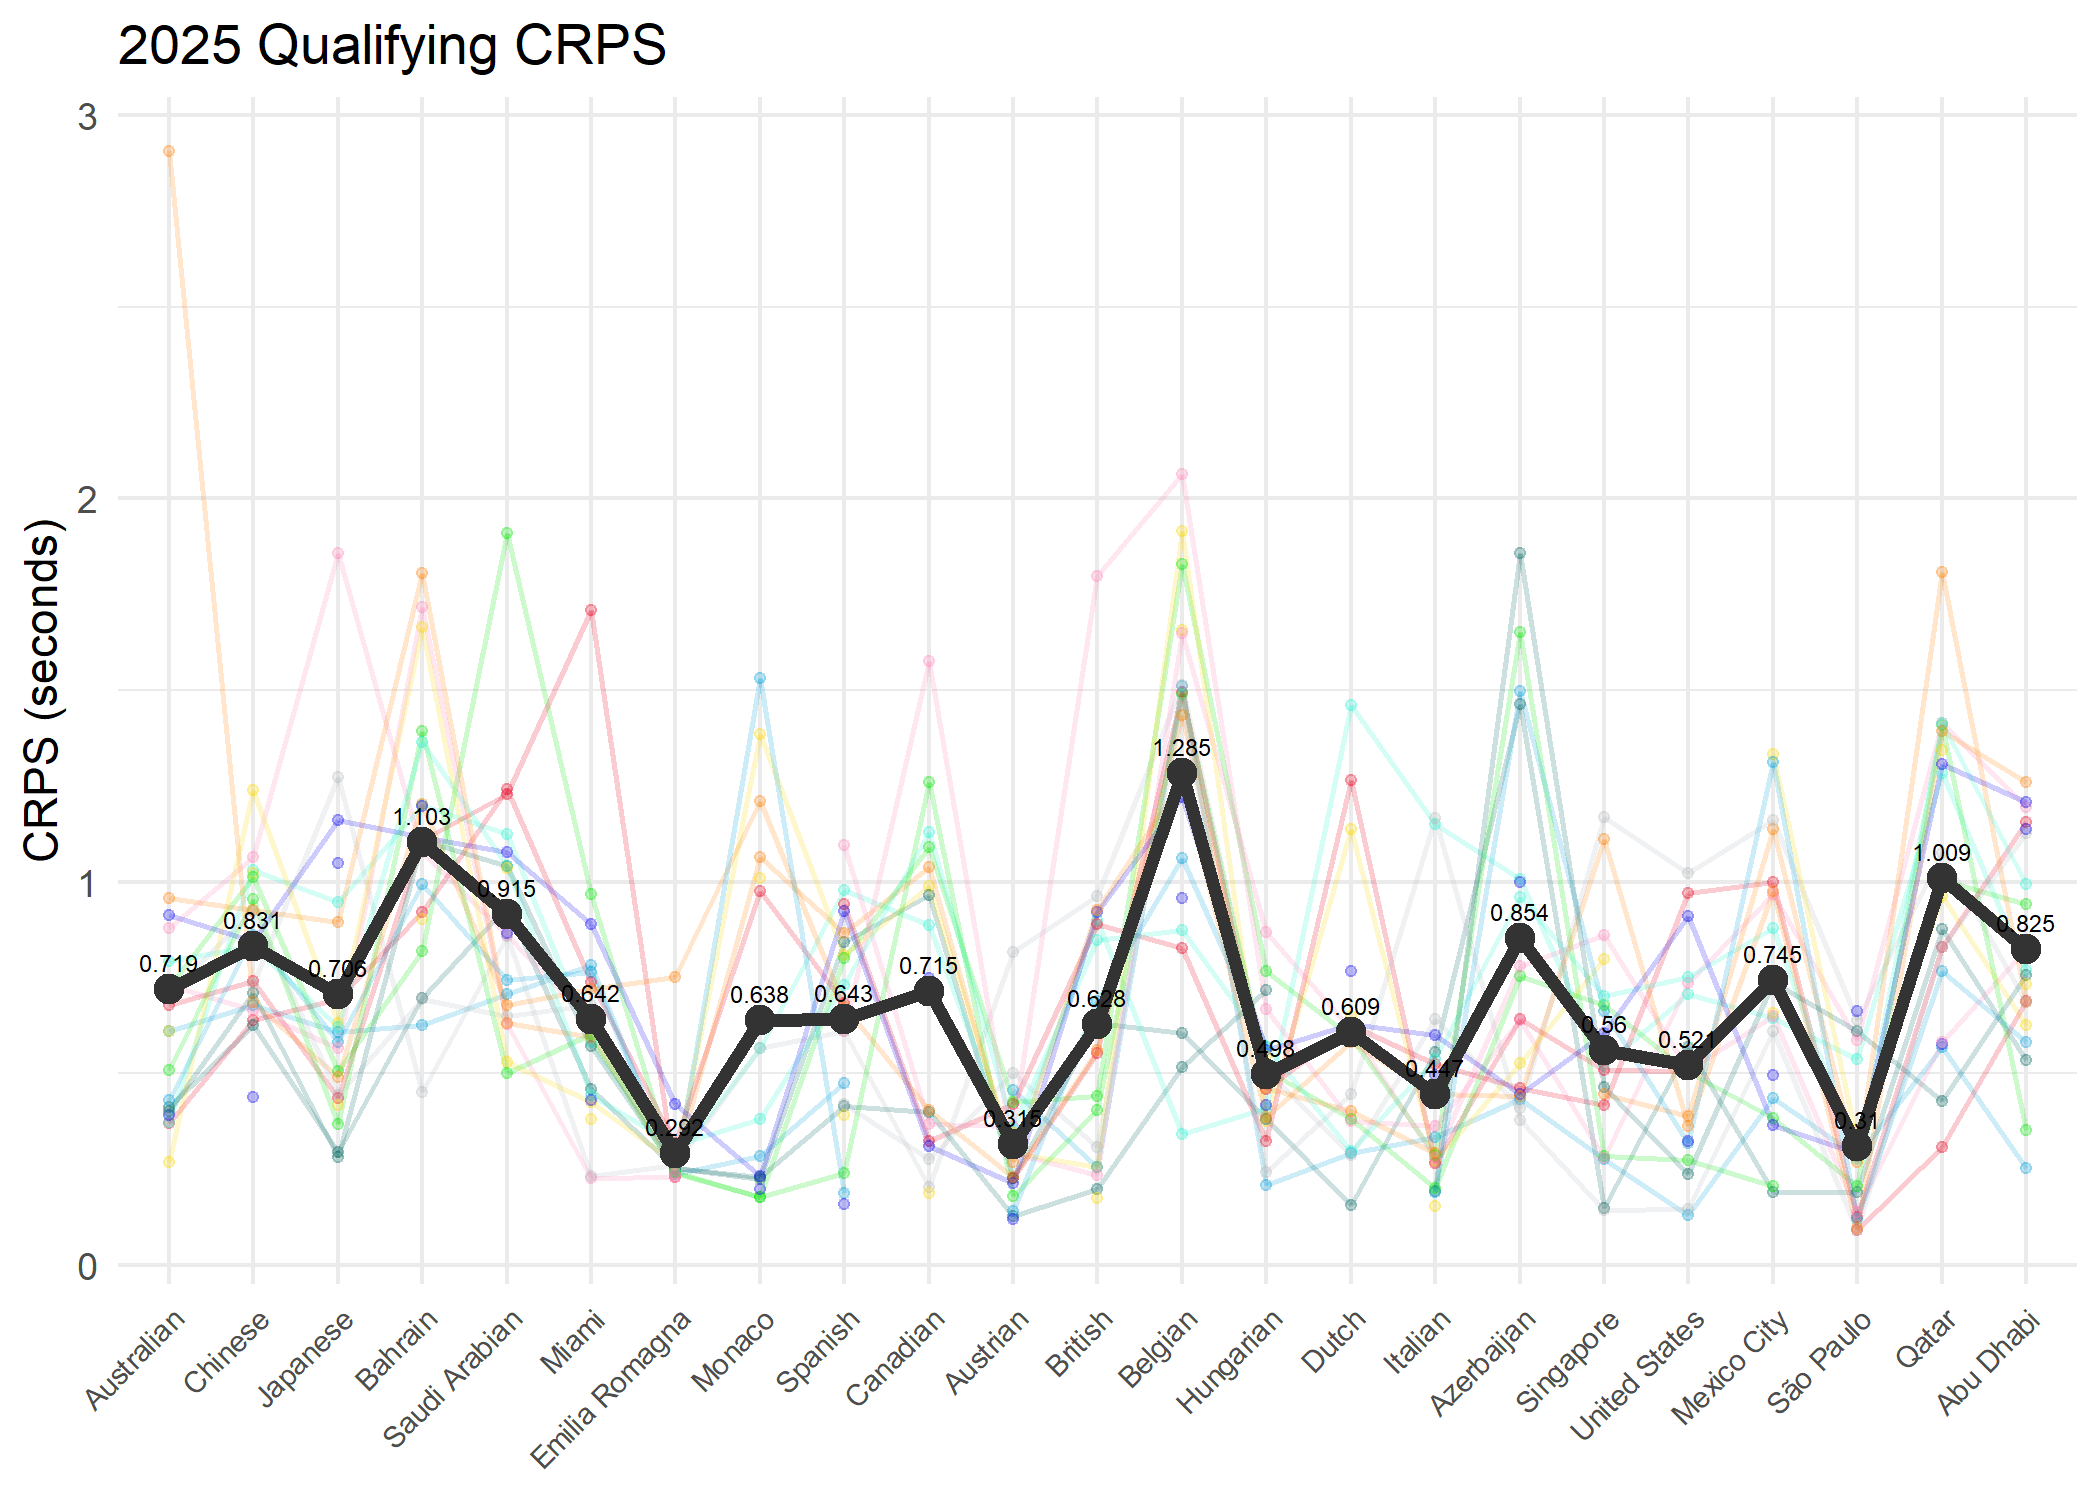
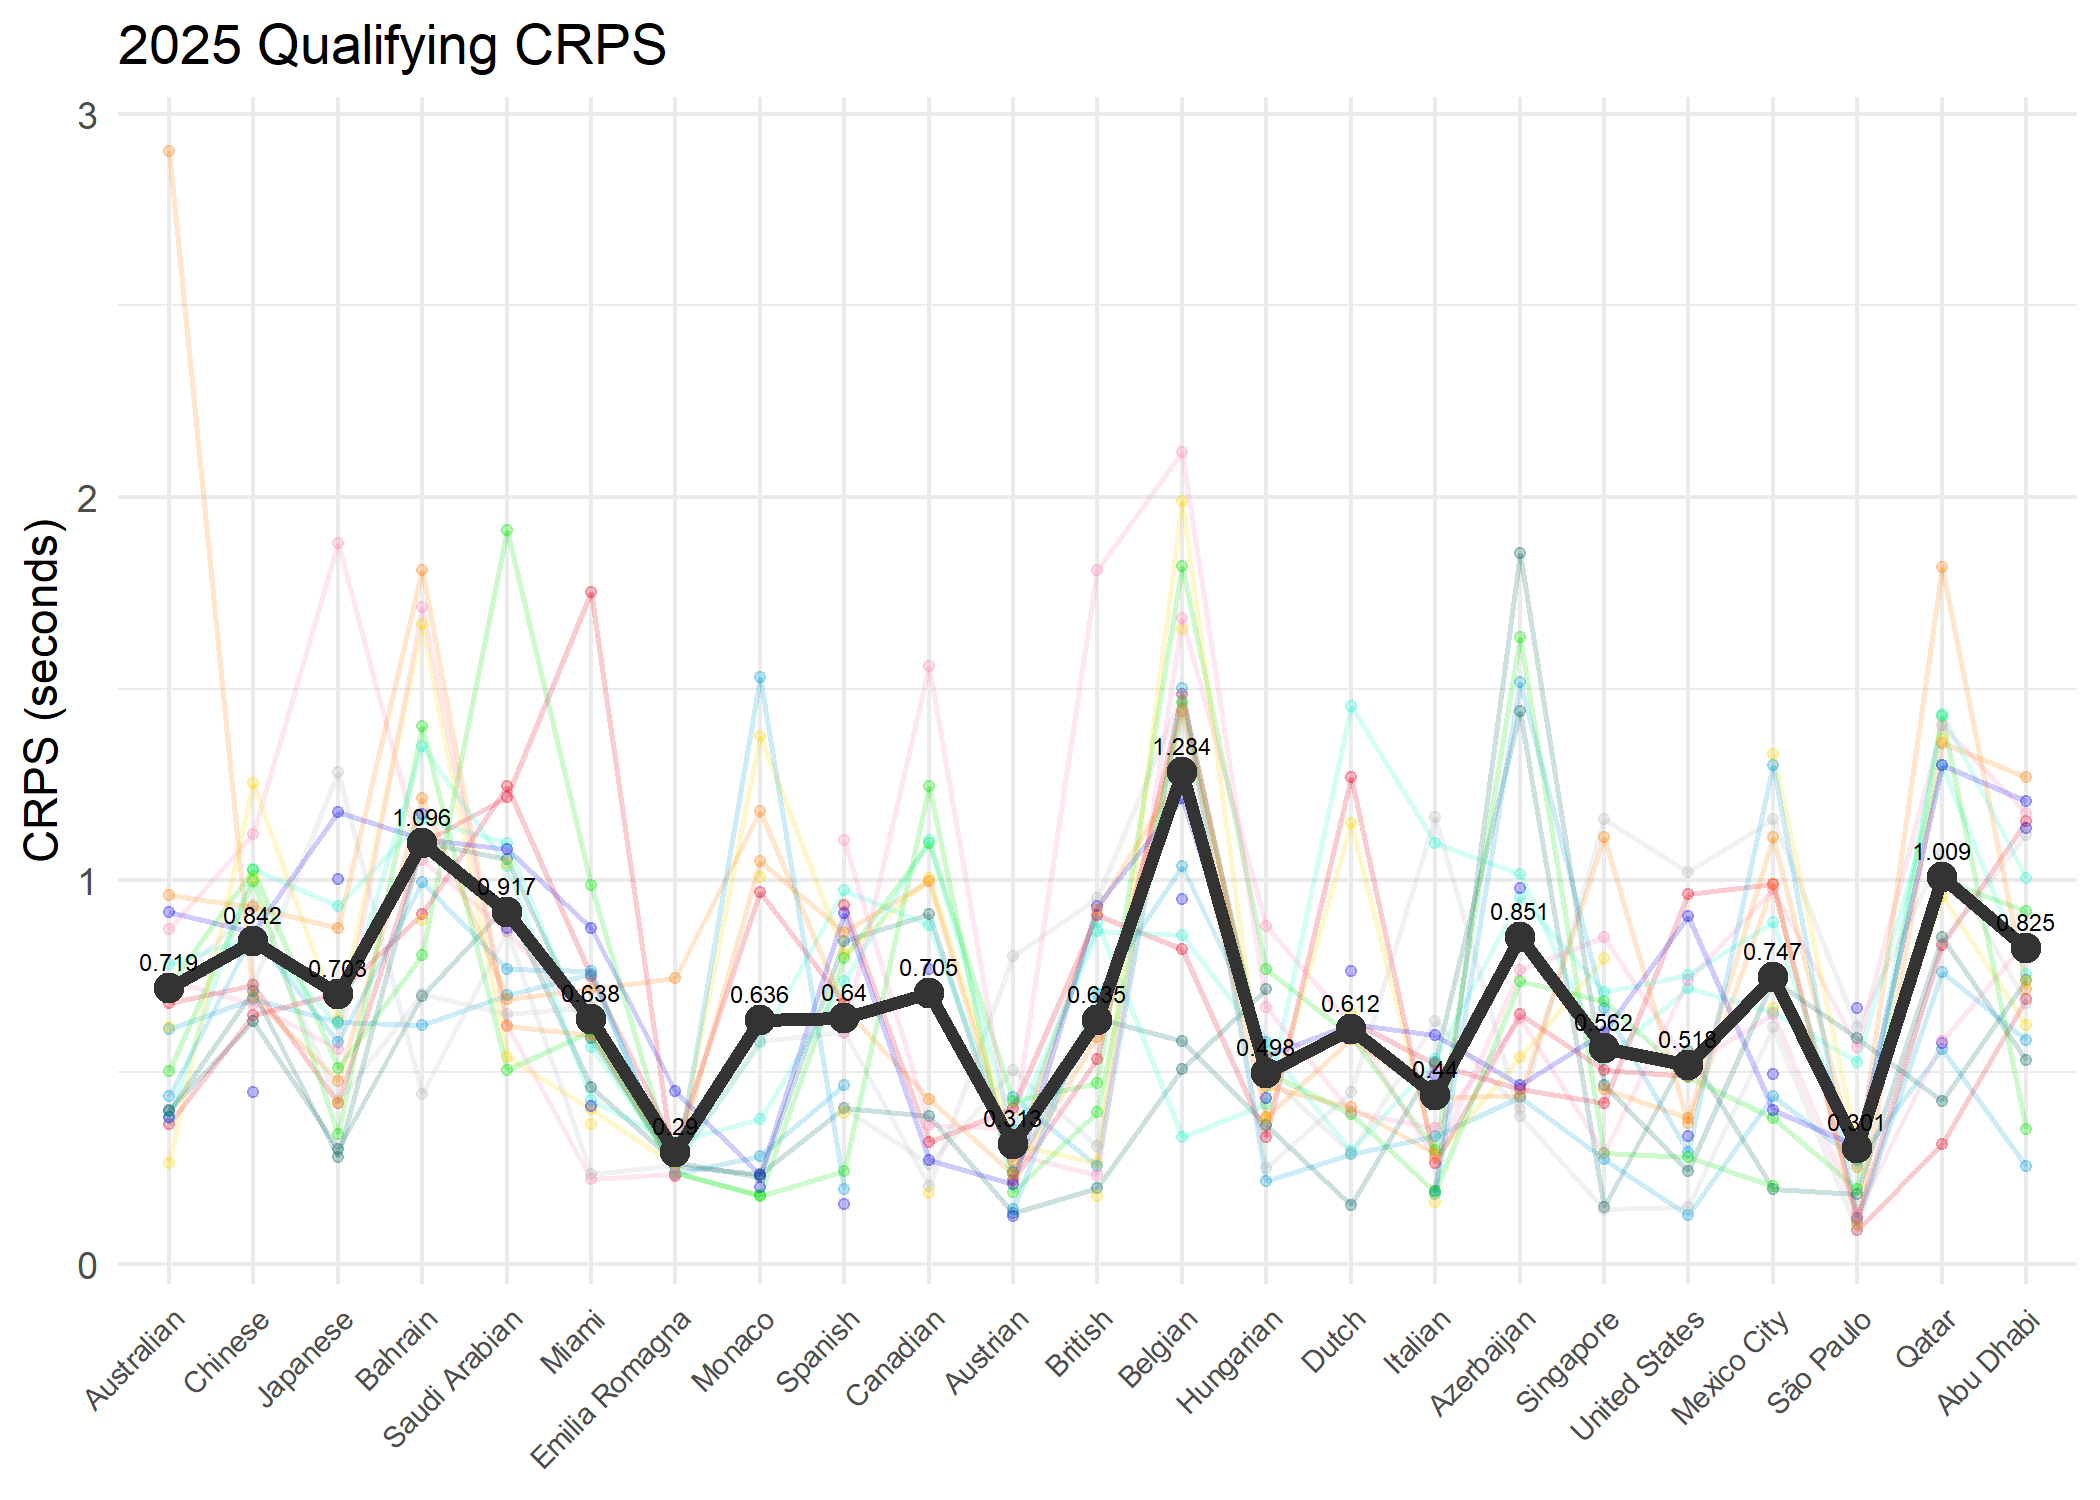
add peak lap time evaluation

diff --git a/docs/vignettes/scoring_model_vignette.md b/docs/vignettes/scoring_model_vignette.md
@@ -1,6 +1,6 @@
 Model evaluation and scoring methodology
 ================
-Compiled: 2026-07-24
+Compiled: 2026-09-30
 
 This vignette highlights methodology for evaluating the accuracy of the
 Bayesian probabilistic model distribution of predicted lap times across
@@ -140,7 +140,7 @@ season_crps <- evaluated_events |>
 
 <img src="scoring_model_vignette_files/figure-gfm/plot_crps-1.png" alt="" width="100%" style="display: block; margin: auto;" />
 
-This represents a global season average for model deviation of 0.69
+This represents a global season average for model deviation of 0.689
 seconds per lap.
 
 Breaking this down further, analysis of driver level CRPS, shows that,
@@ -155,25 +155,25 @@ Hadjar) are, as expected, among the most difficult to predict.
 
 | Driver | Team            | Season Mean CRPS |
 |:-------|:----------------|:----------------:|
-| ALB    | Williams        |      0.475       |
-| ALO    | Aston Martin    |      0.532       |
-| STR    | Aston Martin    |      0.557       |
-| OCO    | Haas F1 Team    |      0.568       |
-| HUL    | Kick Sauber     |      0.596       |
-| LAW    | Racing Bulls    |      0.631       |
-| TSU    | Red Bull Racing |      0.643       |
-| HAM    | Ferrari         |      0.673       |
+| ALB    | Williams        |      0.472       |
+| ALO    | Aston Martin    |      0.525       |
+| STR    | Aston Martin    |      0.555       |
+| OCO    | Haas F1 Team    |      0.566       |
+| HUL    | Kick Sauber     |      0.594       |
+| LAW    | Racing Bulls    |      0.630       |
+| TSU    | Red Bull Racing |      0.641       |
+| HAM    | Ferrari         |      0.672       |
 | SAI    | Williams        |      0.678       |
-| LEC    | Ferrari         |      0.701       |
-| BEA    | Haas F1 Team    |      0.731       |
-| RUS    | Mercedes        |      0.744       |
-| VER    | Red Bull Racing |      0.746       |
-| BOR    | Kick Sauber     |      0.771       |
-| HAD    | Racing Bulls    |      0.774       |
-| ANT    | Mercedes        |      0.783       |
-| GAS    | Alpine          |      0.803       |
-| PIA    | McLaren         |      0.807       |
-| NOR    | McLaren         |      0.811       |
+| LEC    | Ferrari         |      0.699       |
+| BEA    | Haas F1 Team    |      0.726       |
+| RUS    | Mercedes        |      0.743       |
+| VER    | Red Bull Racing |      0.748       |
+| BOR    | Kick Sauber     |      0.772       |
+| ANT    | Mercedes        |      0.777       |
+| HAD    | Racing Bulls    |      0.779       |
+| PIA    | McLaren         |      0.804       |
+| GAS    | Alpine          |      0.806       |
+| NOR    | McLaren         |      0.813       |
 | LAW    | Red Bull Racing |        NA        |
 | TSU    | Racing Bulls    |        NA        |
 | DOO    | Alpine          |        NA        |
@@ -195,16 +195,16 @@ performance out of a difficult car.
 
 | Team            | Team Mean CRPS |
 |:----------------|:--------------:|
-| Aston Martin    |     0.545      |
-| Williams        |     0.577      |
-| Haas F1 Team    |     0.649      |
+| Aston Martin    |     0.540      |
+| Williams        |     0.575      |
+| Haas F1 Team    |     0.646      |
 | Kick Sauber     |     0.683      |
-| Ferrari         |     0.687      |
+| Ferrari         |     0.686      |
 | Red Bull Racing |     0.695      |
-| Racing Bulls    |     0.703      |
-| Mercedes        |     0.763      |
-| Alpine          |     0.803      |
-| McLaren         |     0.809      |
+| Racing Bulls    |     0.704      |
+| Mercedes        |     0.760      |
+| Alpine          |     0.806      |
+| McLaren         |     0.808      |
 
 ### Percentile Point Prediction Accuracy
 
@@ -264,30 +264,46 @@ season_errors_long <- season_errors |>
 <img src="scoring_model_vignette_files/figure-gfm/plot_magnitude-1.png" alt="" width="100%" style="display: block; margin: auto;" />
 
 Over the course of the 2025 season, the percentile point predictions
-yielded a global average MAE of 1.459 seconds, with an RMSE of 1.577
-seconds. The sprint races have a marked impact on these predictions
+yielded a global average MAE of 1.456 seconds, with an RMSE of 1.575
+seconds. The sprint races have a marked impact on these predictions:
 
 ***Average MAE and RMSE of Weekend Format Point Prediction Accuracy***
 
 | Format              | Average MAE | Average RMSE |
 |:--------------------|:-----------:|:------------:|
-| Sprint (1st %ile)   |    1.144    |    1.231     |
-| Standard (5th %ile) |    0.589    |    0.708     |
+| Sprint (1st %ile)   |    1.128    |    1.221     |
+| Standard (5th %ile) |    0.588    |    0.708     |
 
 The significant in accuracy between event formats highlights a clear
 calibration issue when applying the model to sprint weekends. On
 standard weekends, the 5th percentile predictions yield a robust MAE of
-0.589 seconds and a RMSE of 0.708 seconds. The MAE demonstrates that the
+0.588 seconds and a RMSE of 0.708 seconds. The MAE demonstrates that the
 model is, on average, within half a second of the true lap time, while
 the tight margin between the MAE and RMSE indicates a stable baseline
 with very few extreme outlier misses.
 
 In contrast, sprint weekends suffer a severe degradation in precision,
-with MAE and RMSE inflating to 1.144 and 1.231 seconds, respectively
+with MAE and RMSE inflating to 1.128 and 1.221 seconds, respectively
 (although significantly influenced by the Chinese Grand Prix). Because
 sprint weekends offer only a single practice session, the model’s prior
 information likely severely widens the distribution of posterior
 forecast, leading to inaccurate point predictions.
+
+### Pole Lap Time Differences
+
+The accuracy of peak lap time performance the model was able to infer
+was evaluated by calculating the difference between the actual pole time
+and the minimum point prediction of the model per event of the 2025
+season.
+
+<img src="scoring_model_vignette_files/figure-gfm/plot_pole_performance-1.png" alt="" width="100%" style="display: block; margin: auto;" />
+
+Disregarding the Las Vegas Grand Prix, which was run under wet
+qualifying conditions unaccounted for by the model, the median of the
+absolute difference between actual and predicted pole times was: 0.467
+seconds. Again, sprint weekends display more elevated deltas, driven by
+a severe lack of relevant data input. In all but two cases, the model
+underperforms the eventual pole time, indicating a conservative model.
 
 <hr>
 
@@ -309,9 +325,9 @@ function (data, is_sprint = FALSE)
             log(Weekend_Mins_Elapsed + 1) + Compound + PctOffset + 
                 (1 | Team) + (1 | Driver), sigma ~ log(LapCount))
         model_priors <- c(prior_string(paste0("normal(", intercept_prior, 
-            ", 5)"), class = "Intercept"), prior(exponential(1), 
-            class = "sd"), prior(normal(0, 1), class = "b", dpar = "sigma"), 
-            pct_offset_prior)
+            ", 5)"), class = "Intercept"), prior(student_t(3, 
+            0, 2), class = "sd"), prior(normal(0, 1), class = "b", 
+            dpar = "sigma"), pct_offset_prior)
         if ("MEDIUM" %in% unique(data$Compound)) {
             model_priors <- c(model_priors, prior(normal(0.5, 
                 0.3), class = "b", coef = "CompoundMEDIUM"))
@@ -325,8 +341,8 @@ function (data, is_sprint = FALSE)
         model_formula <- bf(LapTime_sec ~ log(Weekend_Mins_Elapsed + 
             1) + Driver + PctOffset + (1 | Team))
         model_priors <- c(prior_string(paste0("normal(", intercept_prior, 
-            ", 5)"), class = "Intercept"), prior(exponential(1), 
-            class = "sd"), prior(exponential(1), class = "sigma"), 
+            ", 5)"), class = "Intercept"), prior(student_t(3, 
+            0, 2), class = "sd"), prior(exponential(1), class = "sigma"), 
             pct_offset_prior)
     }
     brm(formula = model_formula, data = data, family = gaussian(), 
